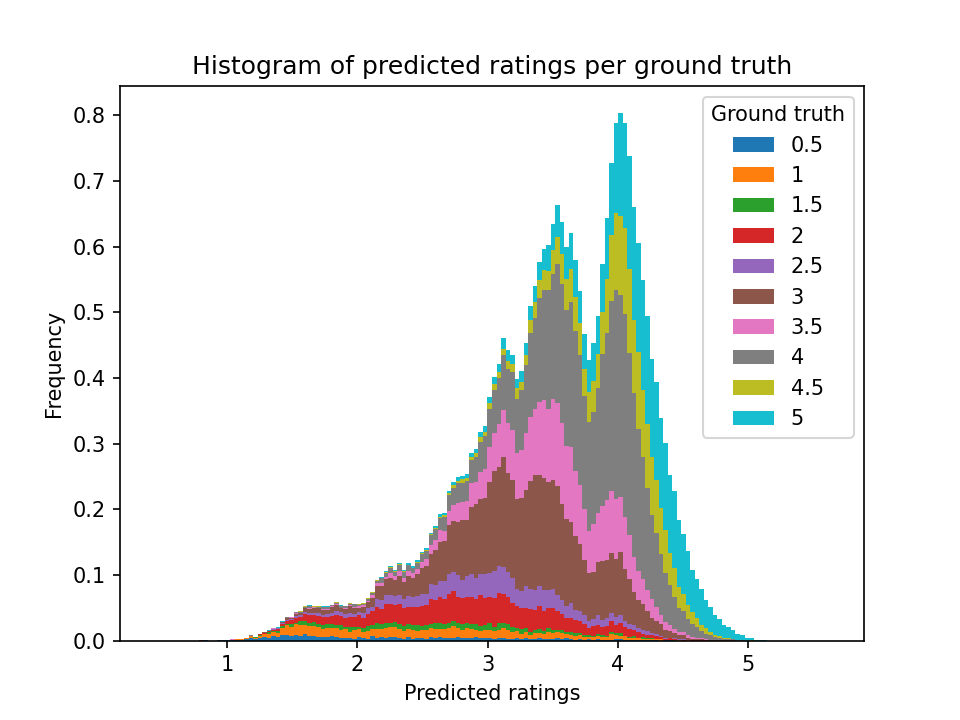
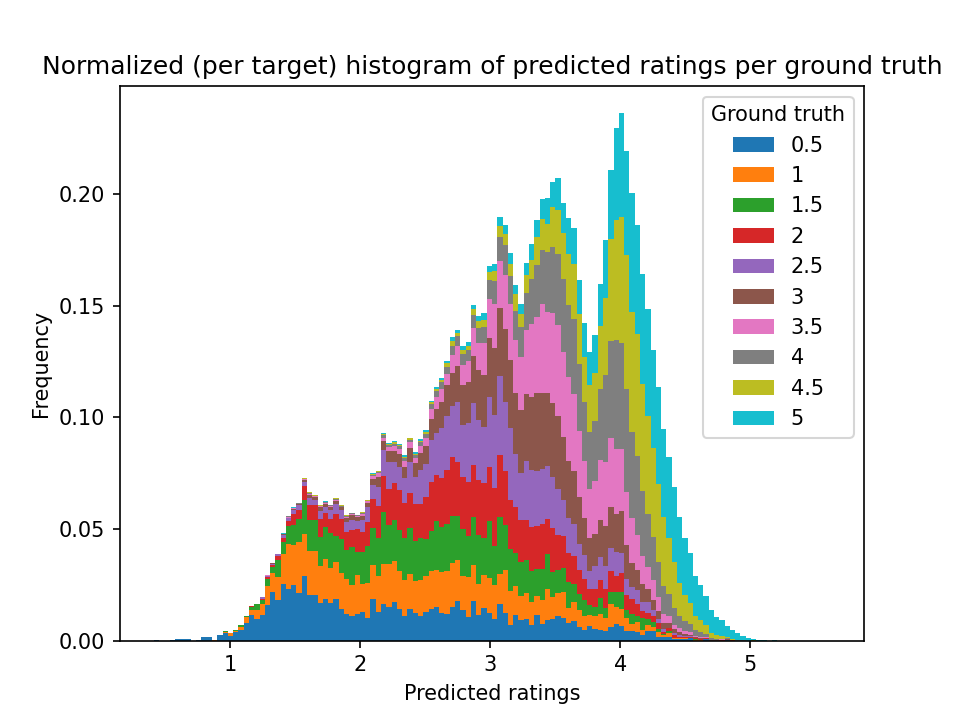
Normalized histogram

diff --git a/src/plots.py b/src/plots.py
@@ -59,13 +59,24 @@ def plot_residuals(fitted_values: np.array, ground_truth: np.array):
     plt.show()
 
 
-def plot_stacked_residuals(fitted_values, ground_truth):
+def plot_stacked_residuals(fitted_values, ground_truth, normalize=True):
     # plt.style.use('seaborn')
     df = pd.DataFrame(index=ground_truth, data={'fitted_values': fitted_values})
-    plt.hist([df.loc[k]['fitted_values'] for k in [0.5, 1, 1.5, 2, 2.5, 3, 3.5, 4, 4.5, 5]],
-             bins=150, stacked=True, density=True)
-    plt.legend(title='Ground truth', labels=[str(num) for num in [0.5, 1, 1.5, 2, 2.5, 3, 3.5, 4, 4.5, 5]])
-    plt.title('Histogram of predicted ratings per ground truth')
+    if normalize:
+        num_bins = 128
+        _, bins = np.histogram(df['fitted_values'].values, bins=num_bins)
+        pre_height = np.zeros(num_bins)
+        for k in [0.5, 1, 1.5, 2, 2.5, 3, 3.5, 4, 4.5, 5]:
+            hist, _ = np.histogram(df.loc[k]['fitted_values'].values, bins=bins)  # pass actual bin points
+            height = np.array(hist.astype(np.float32) / hist.sum())
+            plt.bar(bins[:-1], height, width=(bins[1] - bins[0]), bottom=pre_height, label=str(k))
+            pre_height += height
+        plt.legend(title='Ground truth')
+    else:
+        plt.hist([df.loc[k]['fitted_values'] for k in [0.5, 1, 1.5, 2, 2.5, 3, 3.5, 4, 4.5, 5]],
+                 bins=128, stacked=True)
+        plt.legend(title='Ground truth', labels=[str(num) for num in [0.5, 1, 1.5, 2, 2.5, 3, 3.5, 4, 4.5, 5]])
+    plt.title(('Normalized (per target) histogram' if normalize else 'Histogram') + ' of predicted ratings per ground truth')
     plt.xlabel('Predicted ratings')
     plt.ylabel('Frequency')
 

diff --git a/src/evaluate.py b/src/evaluate.py
@@ -29,6 +29,9 @@ def evaluate_model(model: nn.Module):
     test_size = 0
     fitted_values = []
     ground_truth = []
+
+    test = False
+    i = 0
     with torch.no_grad():
         for data in tqdm(test_loader, desc='Testing'):
             # get the item & user input and the target
@@ -43,6 +46,10 @@ def evaluate_model(model: nn.Module):
             # keep track of fitted values and their actual targets
             fitted_values.append(out.cpu().detach().numpy())
             ground_truth.append(y_batch.view(-1, 1).float().cpu().detach().numpy())
+            # TODO: temp
+            i += 1
+            if test and i > 10:
+                break
 
     test_mse = test_sum_loss / test_size
     print(f'Test loss (MSE): {test_mse:.6f} - RMSE: {sqrt(test_mse):.6f}')
